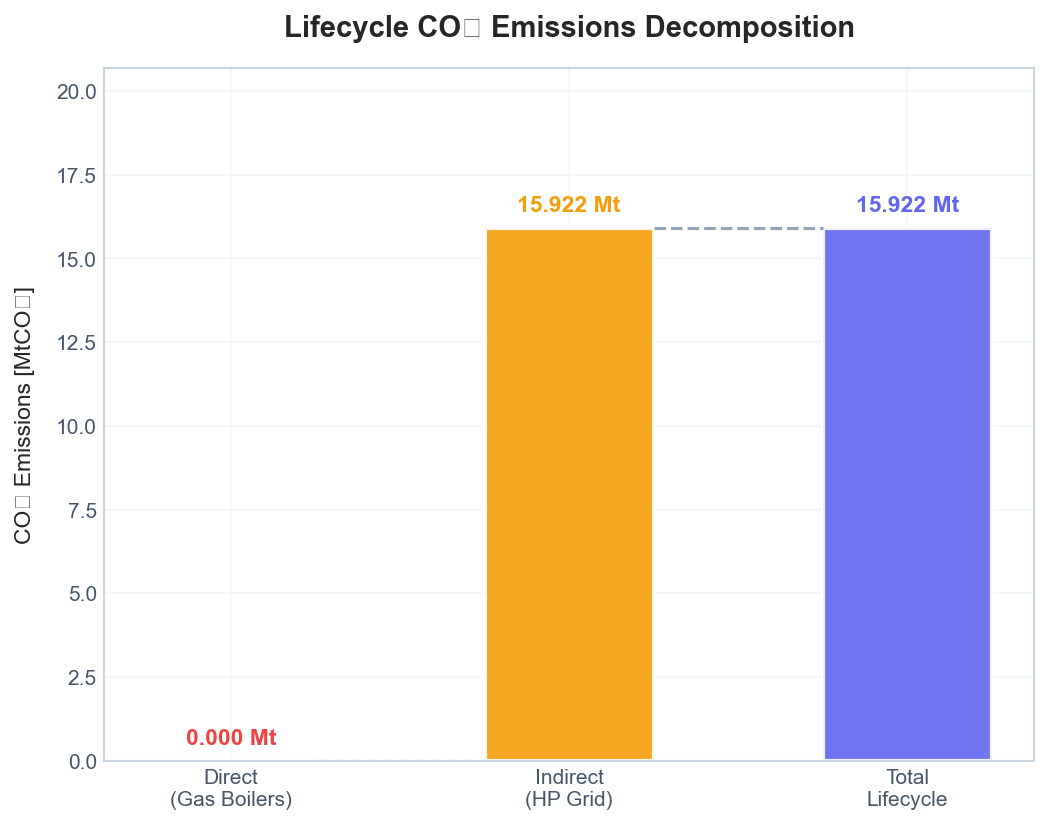
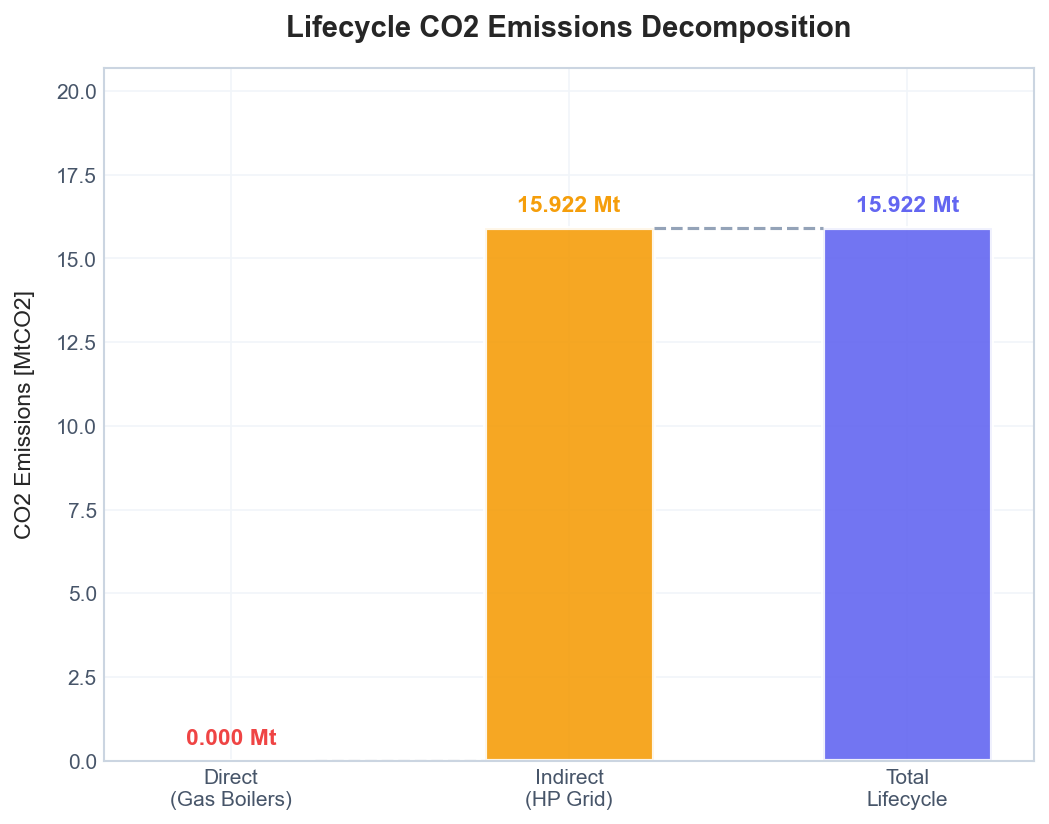
fix: Replace unsupported unicode subscript 2 with regular CO2 in plots

Changed region(s): [[0.2745, 0.0, 0.8236, 0.0607], [0.0, 0.3337, 0.0305, 0.6675]]

diff --git a/projects/14-german-heat-decarbonization-fine-mga/src/plotting.py b/projects/14-german-heat-decarbonization-fine-mga/src/plotting.py
@@ -1,4 +1,4 @@
-"""
+"""
 Visualization module containing plotting routines for publication-ready figures:
 1. Social Feasibility Frontier (Cost-Acceptance Pareto Curve)
 2. Capacity & Generation Stacked Bar Charts across slacks
@@ -271,7 +271,7 @@ def plot_co2_marginal_abatement_curve(co2_df, output_path=None):
                      xytext=(5, 10), textcoords="offset points",
                      fontsize=9, weight="600", color="#5b21b6")
     
-    ax1.set_xlabel("CO₂ Emission Cap [MtCO₂]", fontsize=11, labelpad=10)
+    ax1.set_xlabel("CO2 Emission Cap [MtCO2]", fontsize=11, labelpad=10)
     ax1.set_ylabel("Annual System Cost [Billion EUR/yr]", fontsize=11, labelpad=10)
     ax1.set_title("System Cost vs Carbon Stringency", fontsize=13, weight="700", pad=15)
     ax1.tick_params(colors="#475569", labelsize=10)
@@ -300,9 +300,9 @@ def plot_co2_marginal_abatement_curve(co2_df, output_path=None):
                          xytext=(0, 5), textcoords="offset points",
                          ha="center", fontsize=9, weight="600", color="#334155")
         
-        ax2.set_xlabel("CO₂ Cap Transition", fontsize=11, labelpad=10)
-        ax2.set_ylabel("Marginal Abatement Cost [EUR/tCO₂]", fontsize=11, labelpad=10)
-        ax2.set_title("Marginal Cost of CO₂ Reduction", fontsize=13, weight="700", pad=15)
+        ax2.set_xlabel("CO2 Cap Transition", fontsize=11, labelpad=10)
+        ax2.set_ylabel("Marginal Abatement Cost [EUR/tCO2]", fontsize=11, labelpad=10)
+        ax2.set_title("Marginal Cost of CO2 Reduction", fontsize=13, weight="700", pad=15)
         ax2.tick_params(colors="#475569", labelsize=10)
     
     plt.tight_layout(w_pad=4)
@@ -396,7 +396,7 @@ def plot_retrofit_impact_comparison(retrofit_df, output_path=None):
     for i, v in enumerate(df["co2_emissions_mt"]):
         ax.annotate(f"{v:.2f}", xy=(i, v), xytext=(0, 4), textcoords="offset points",
                     ha="center", fontsize=10, weight="600", color="#991b1b")
-    ax.set_ylabel("Direct CO₂ [MtCO₂]", fontsize=10, labelpad=8)
+    ax.set_ylabel("Direct CO2 [MtCO2]", fontsize=10, labelpad=8)
     ax.set_title("Carbon Emissions", fontsize=12, weight="700", pad=10)
     ax.set_xticks(x)
     ax.set_xticklabels([s.replace("_", "\n") for s in scenarios], fontsize=9)
@@ -502,8 +502,8 @@ def plot_emissions_waterfall(direct_co2_mt, indirect_co2_mt, output_path=None):
                     xytext=(0, 8), textcoords="offset points",
                     ha="center", fontsize=11, weight="700", color=colors[i])
     
-    ax.set_title("Lifecycle CO₂ Emissions Decomposition", fontsize=14, weight="700", pad=15)
-    ax.set_ylabel("CO₂ Emissions [MtCO₂]", fontsize=11, labelpad=10)
+    ax.set_title("Lifecycle CO2 Emissions Decomposition", fontsize=14, weight="700", pad=15)
+    ax.set_ylabel("CO2 Emissions [MtCO2]", fontsize=11, labelpad=10)
     ax.tick_params(colors="#475569", labelsize=10)
     ax.set_ylim(0, total * 1.3)
     